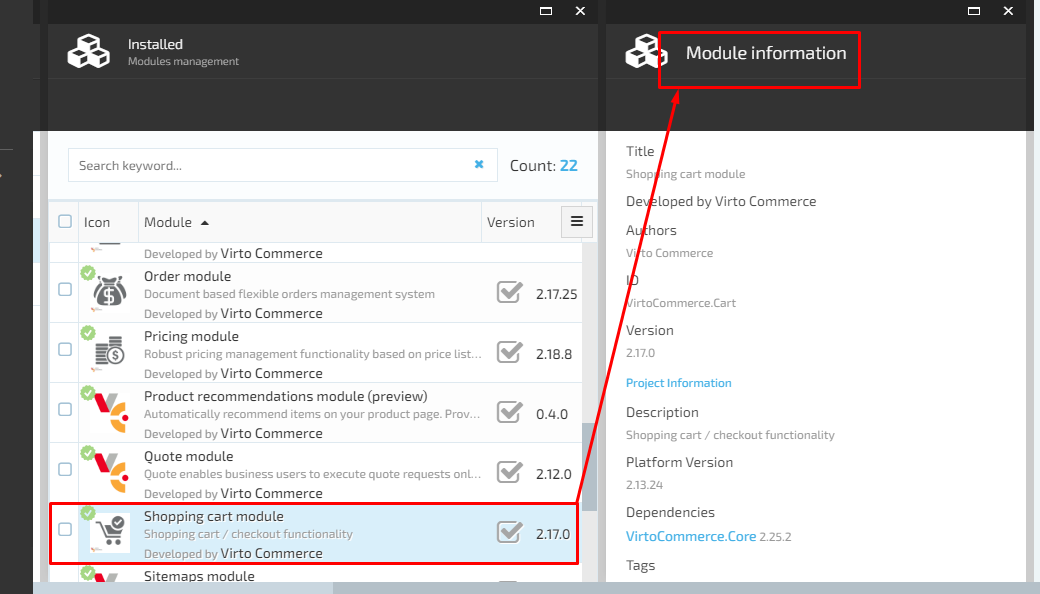
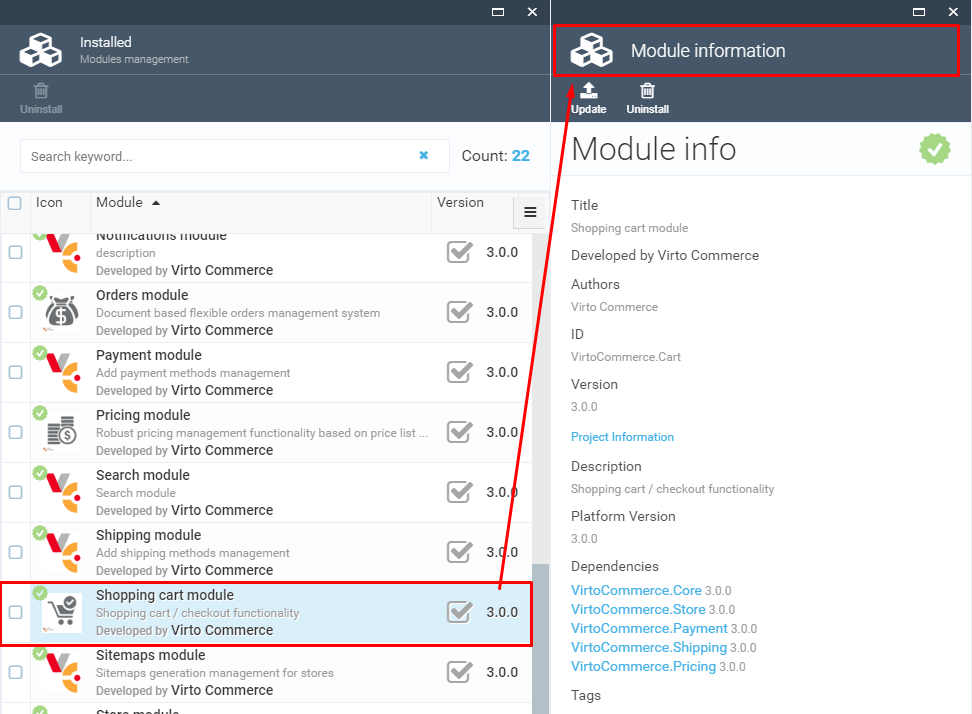
Update readme pictures with v3
Removed mention about "Module extension" template since we don't have it right now

diff --git a/README.md b/README.md
@@ -32,9 +32,7 @@ For more details about the available cart-module API, please follow the link bel
 
 https://admin-demo.virtocommerce.com/docs/ui/index#/Shopping%2520cart%2520module
 
-The VirtoCommerce.Cart module functionality can be extended and customized based on the specific business needs. In order to extend the cart module functionality, use "Virto Commerce 2.x Cart and Order Module extension" template that can be accessed by following the link below:
-
-https://marketplace.visualstudio.com/items?itemName=Virto-Commerce.VirtoCommerceModuleTemplates
+The VirtoCommerce.Cart module functionality can be extended and customized based on the specific business needs.
 
 
 ## Installation
